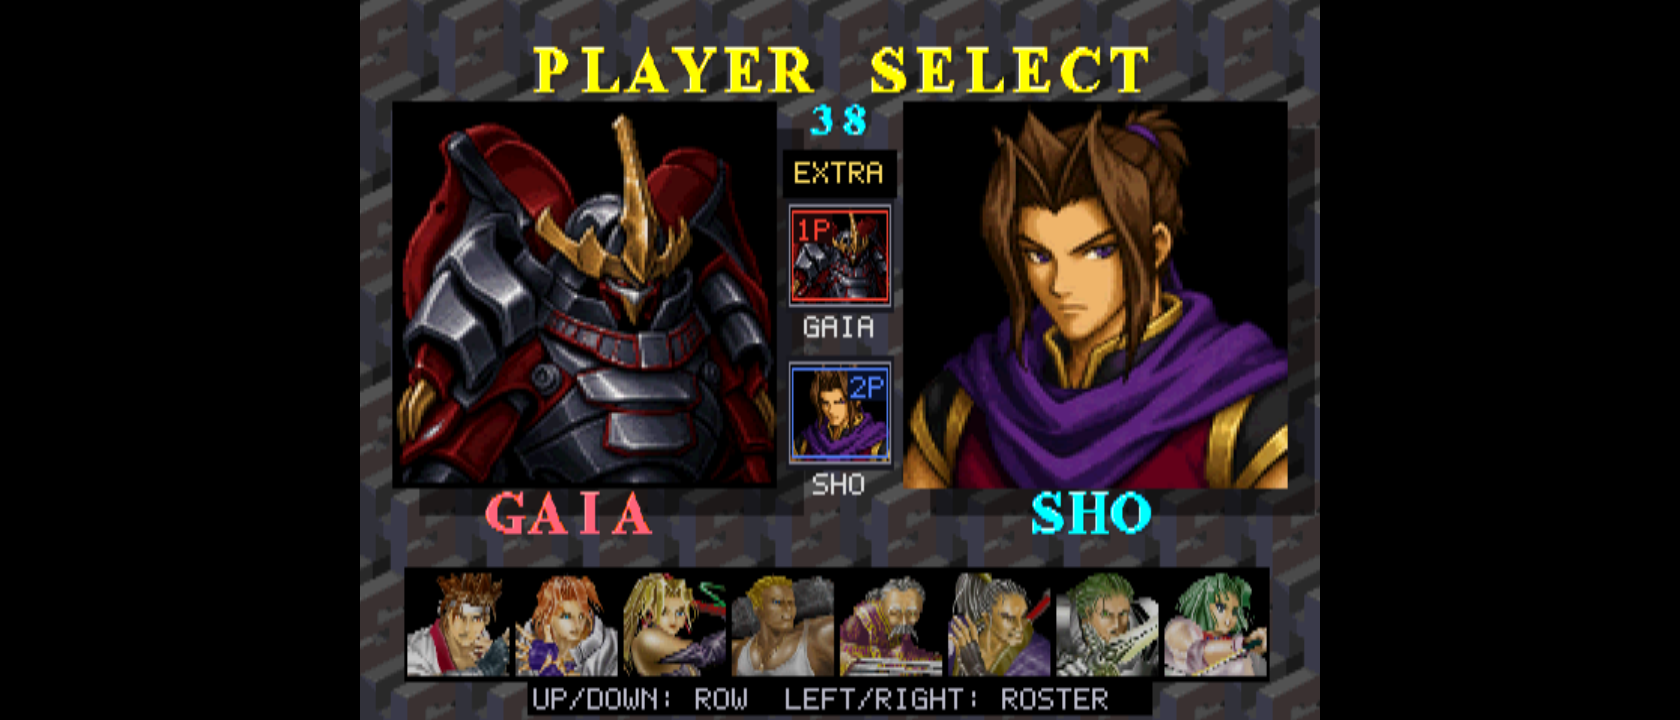
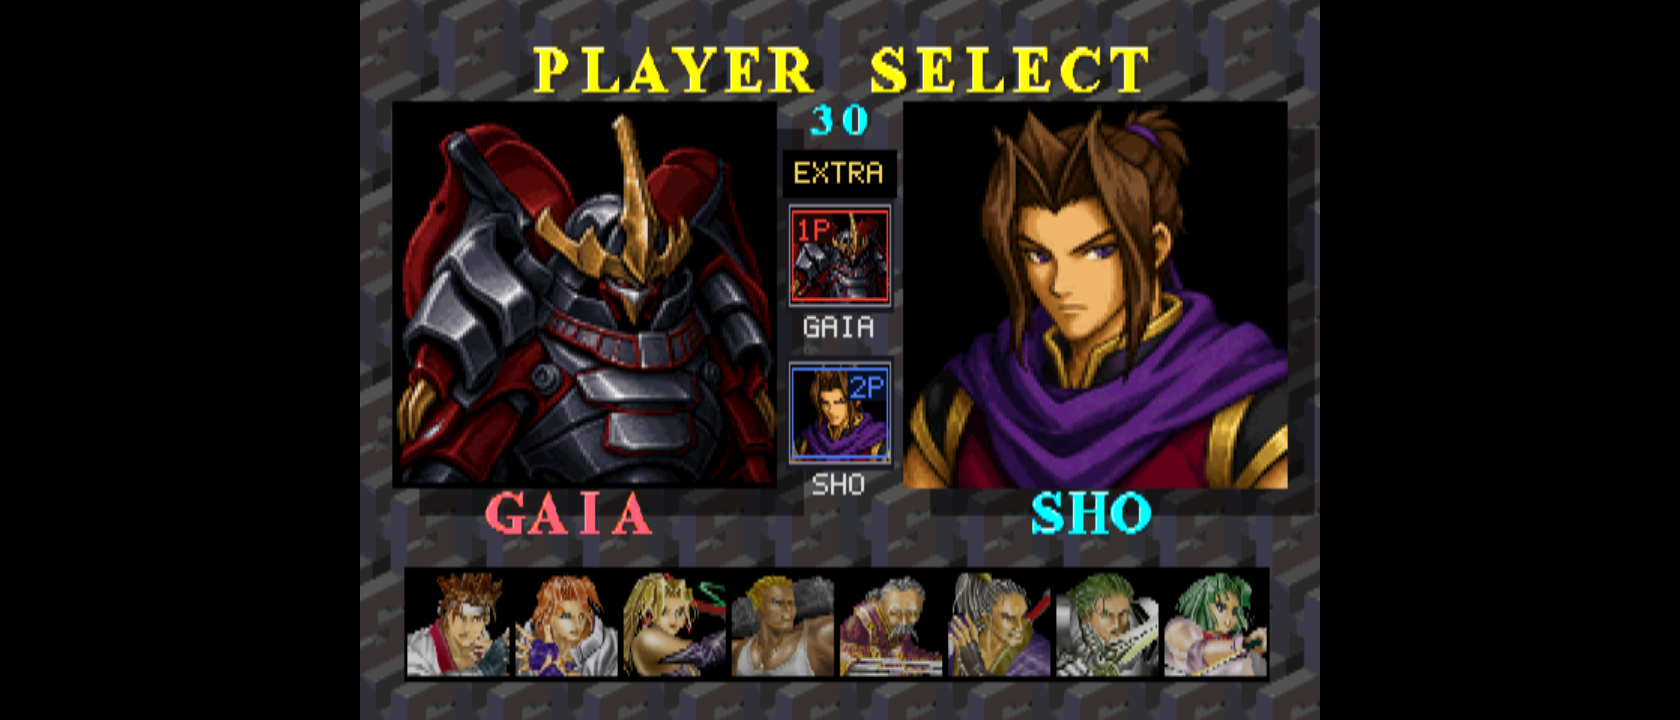
Remove Extra Roster navigation hint and note initial release stability

Changed region(s): [[0.3095, 0.9472, 0.7119, 1.0], [0.4952, 0.1528, 0.5262, 0.1833]]

diff --git a/src/mods/toshinden_boss_roster_ui.c b/src/mods/toshinden_boss_roster_ui.c
@@ -724,7 +724,6 @@ static void toshinden_build_boss_ui(ToshindenUiBuilder *builder) {
     int p1_char = toshinden_player_char(TOSHINDEN_PLAYER_1);
     int p2_char = toshinden_player_char(TOSHINDEN_PLAYER_2);
     uint32_t heading = toshinden_rgb(248, 220, 96);
-    uint32_t hint = toshinden_rgb(184, 184, 200);
     uint32_t shadow = toshinden_rgb(0, 0, 0);
 
     toshinden_emit_big_portrait(builder, p1_char, 0);
@@ -742,9 +741,6 @@ static void toshinden_build_boss_ui(ToshindenUiBuilder *builder) {
         p1_char == TOSHINDEN_CHAR_SHO,
         p2_char == TOSHINDEN_CHAR_SHO);
 
-    toshinden_emit_rect(builder, 112, 224, 416, 13, shadow);
-    toshinden_emit_text(builder, 116, 228,
-        "UP/DOWN: ROW  LEFT/RIGHT: ROSTER", hint);
 }
 
 static void toshinden_finish_builder(ToshindenUiBuilder *builder) {

diff --git a/README.md b/README.md
@@ -18,6 +18,10 @@ and [recomp-ui](https://github.com/mstan/recomp-ui).
 
 ## Status
 
+**0.1.0 — Initial Release** is believed to be stable based on gameplay testing
+and user validation, despite being an early release. Further testing and bug
+reports are welcome; the validation notes describe the remaining limits.
+
 The game boots through its introduction and character selection into combat.
 The initial playable baseline was validated and approved for enhancements on
 September 6, 2026. The launcher includes disc setup, settings, and a Mods page.
